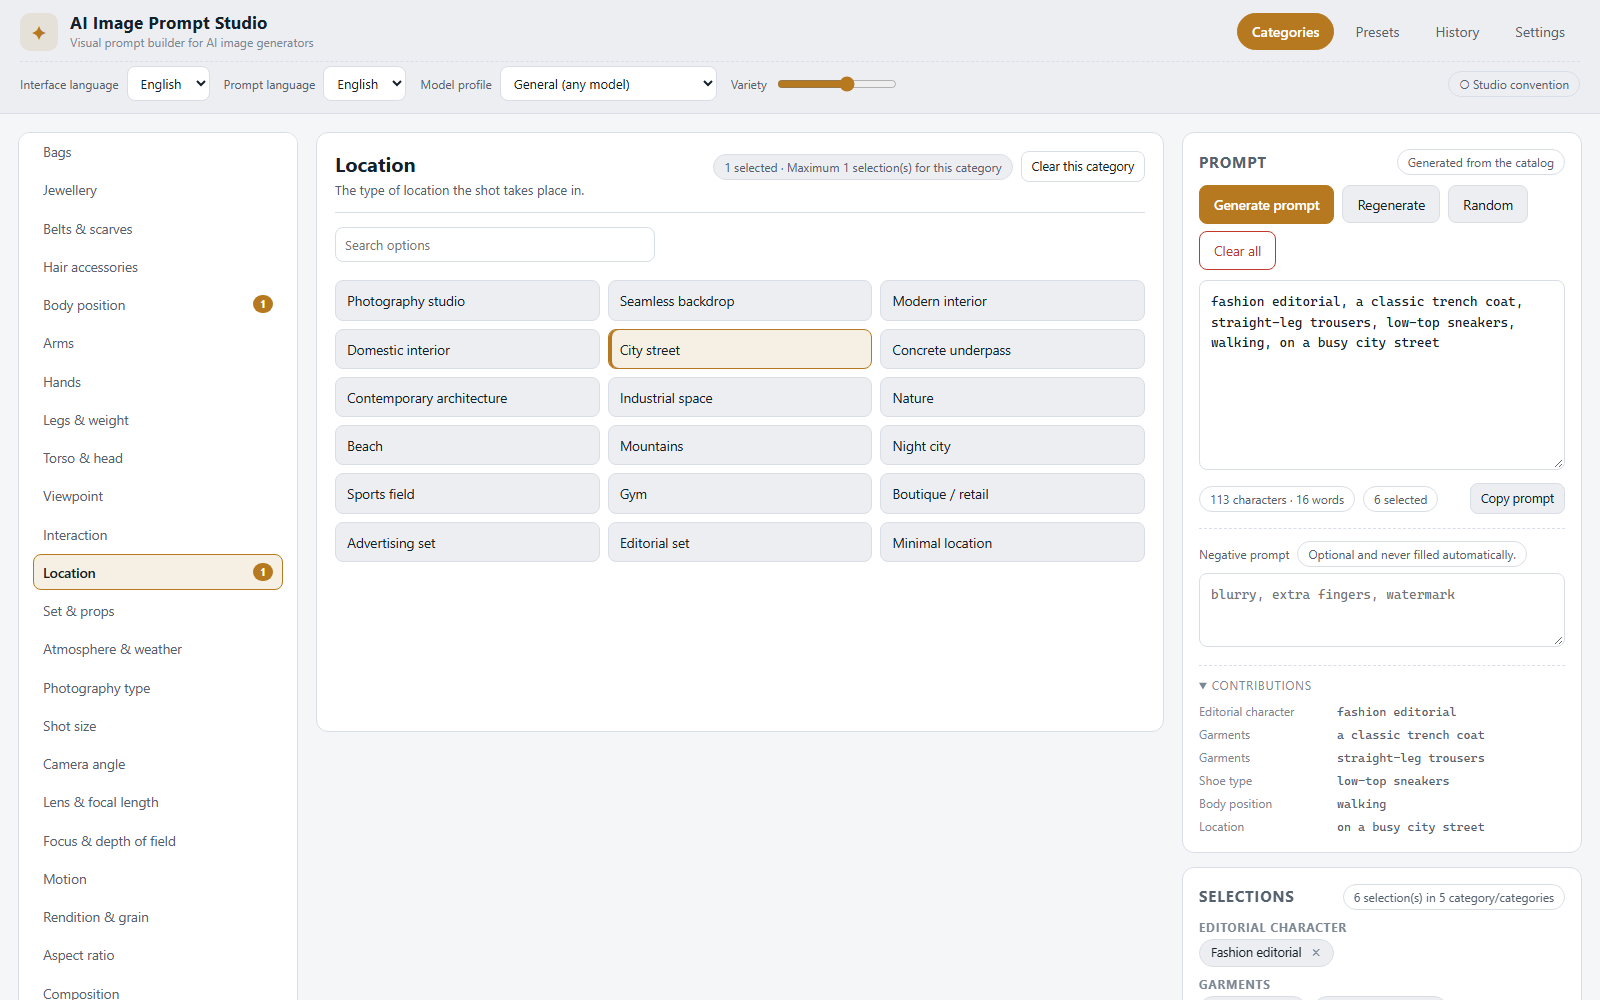
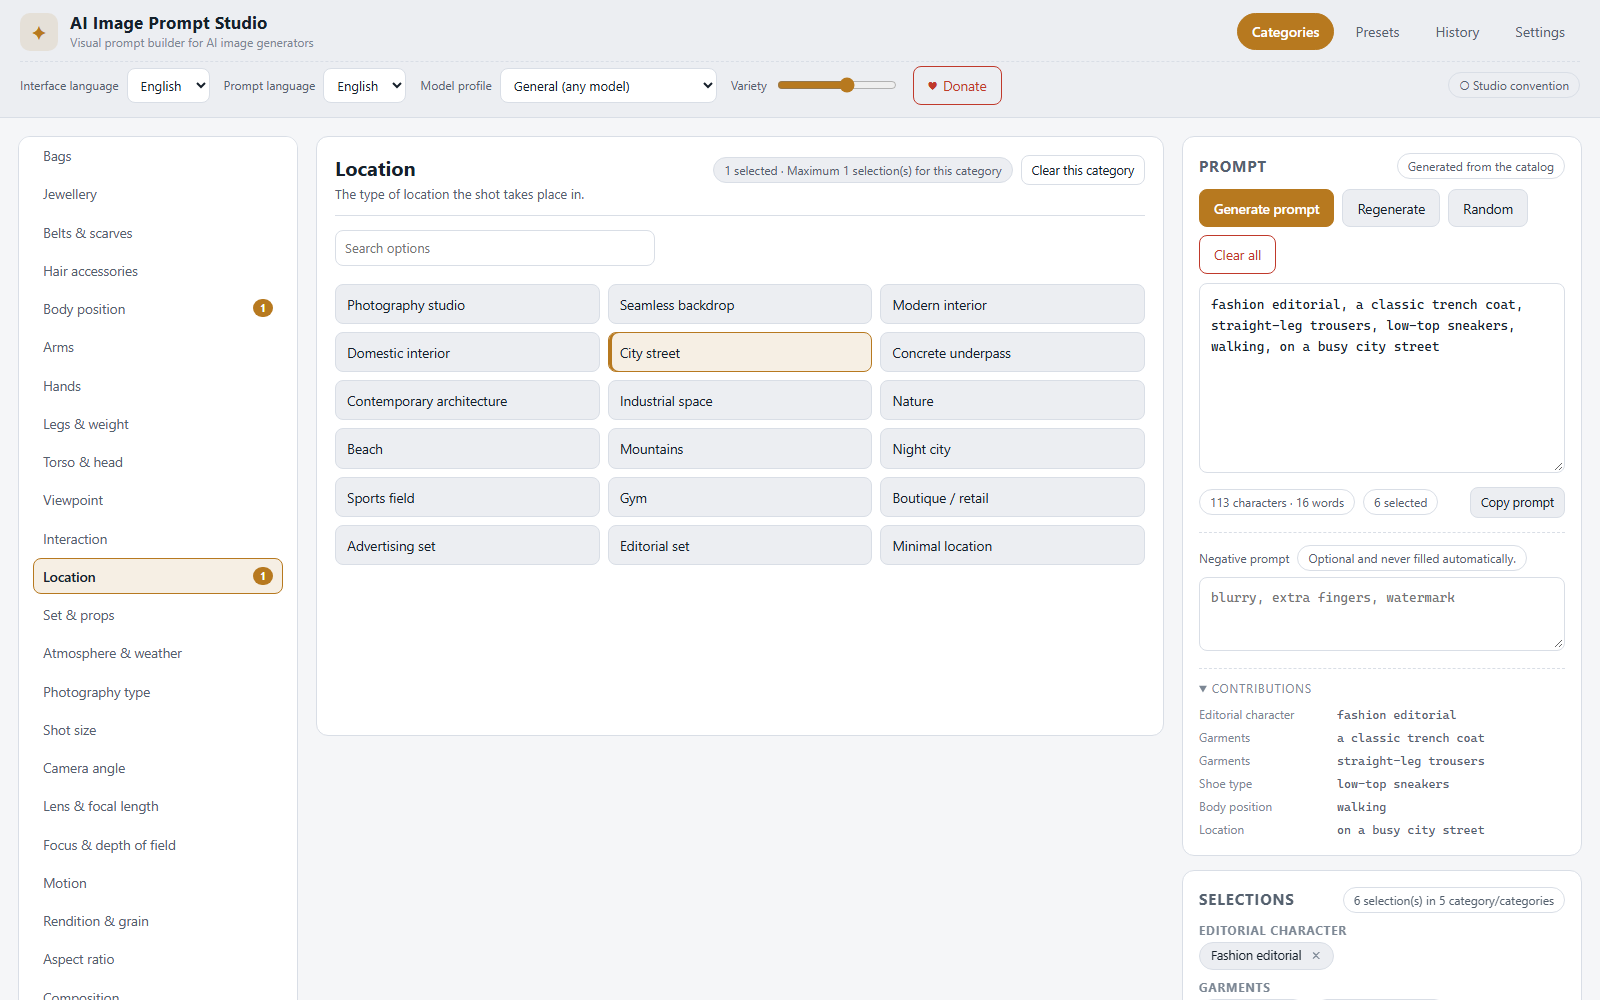
feat: donation button and MIT license

diff --git a/src/ui/App.test.tsx b/src/ui/App.test.tsx
@@ -10,6 +10,7 @@ import { afterEach, beforeEach, describe, expect, it, vi } from 'vitest';
 import { cleanup, fireEvent, render, screen, waitFor, within } from '@testing-library/react';
 import { App } from './App';
 import { AppProvider } from '../state/AppProvider';
+import { DONATION_URL } from '../donation';
 import type { KeyValueStorage } from '../state/persistence';
 
 class MemoryStorage implements KeyValueStorage {
@@ -165,6 +166,27 @@ describe('global actions', () => {
 
     fireEvent.click(screen.getByRole('button', { name: 'Copy prompt' }));
     await waitFor(() => expect(writer).toHaveBeenCalledWith('fashion editorial'));
+  });
+});
+
+describe('donation', () => {
+  it('links to the PayPal profile in a safe new tab', () => {
+    renderApp();
+    const links = screen.getAllByRole('link', { name: /Donate/ });
+    expect(links.length).toBeGreaterThanOrEqual(2);
+    expect(DONATION_URL).toBe('https://paypal.me/SalvaCucca');
+    for (const link of links) {
+      expect(link.getAttribute('href')).toBe(DONATION_URL);
+      expect(link.getAttribute('target')).toBe('_blank');
+      expect(link.getAttribute('rel')).toContain('noopener');
+    }
+  });
+
+  it('translates the donation label', async () => {
+    renderApp();
+    const selects = screen.getAllByRole('combobox');
+    fireEvent.change(selects[0]!, { target: { value: 'it' } });
+    await waitFor(() => expect(screen.getAllByRole('link', { name: /Dona/ }).length).toBeGreaterThan(0));
   });
 });
 

diff --git a/src/styles.css b/src/styles.css
@@ -134,6 +134,39 @@ a {
   color: var(--text-faint);
   font-size: 12px;
   border-top: 1px solid var(--border);
+  display: flex;
+  align-items: center;
+  justify-content: space-between;
+  gap: 12px;
+  flex-wrap: wrap;
+}
+
+.footer-donate {
+  color: var(--text-dim);
+  text-decoration: none;
+  border: 1px solid var(--border);
+  border-radius: 999px;
+  padding: 4px 12px;
+  transition: color 0.12s ease, border-color 0.12s ease;
+}
+
+.footer-donate:hover {
+  color: var(--danger);
+  border-color: var(--danger);
+}
+
+.btn.donate {
+  display: inline-flex;
+  align-items: center;
+  gap: 6px;
+  color: var(--danger);
+  border-color: var(--danger);
+  background: transparent;
+  text-decoration: none;
+}
+
+.btn.donate:hover {
+  background: var(--danger-soft);
 }
 
 /* ------------------------------------------------------------------ topbar */

diff --git a/src/ui/App.tsx b/src/ui/App.tsx
@@ -1,4 +1,5 @@
 import { useEffect, useMemo } from 'react';
+import { DONATION_URL } from '../donation';
 import { useApp } from '../state/AppProvider';
 import { CategoryNav } from './components/CategoryNav';
 import { CategoryPanel } from './components/CategoryPanel';
@@ -58,6 +59,15 @@ export function App() {
             entries: catalog.categories.reduce((sum, category) => sum + category.entries.length, 0),
           })}
         </span>
+        <a
+          className="footer-donate"
+          href={DONATION_URL}
+          target="_blank"
+          rel="noopener noreferrer"
+          title={t('action.donateHint')}
+        >
+          <span aria-hidden="true">♥</span> {t('action.donate')}
+        </a>
       </footer>
       <Overlays />
     </div>

diff --git a/src/ui/components/TopBar.tsx b/src/ui/components/TopBar.tsx
@@ -1,5 +1,6 @@
 import { UI_LOCALES } from '../../i18n';
 import { MODEL_PROFILES } from '../../models/profiles';
+import { DONATION_URL } from '../../donation';
 import { useApp } from '../../state/AppProvider';
 import { useT } from '../useT';
 
@@ -117,6 +118,16 @@ export function TopBar() {
             }
           />
         </label>
+
+        <a
+          className="btn donate"
+          href={DONATION_URL}
+          target="_blank"
+          rel="noopener noreferrer"
+          title={t('action.donateHint')}
+        >
+          <span aria-hidden="true">♥</span> {t('action.donate')}
+        </a>
 
         <span
           className={`pill subtle profile-pill ${profile.verification === 'verified' ? 'ok' : ''}`}

diff --git a/src/i18n/it.ts b/src/i18n/it.ts
@@ -42,6 +42,8 @@ export const it: Dictionary = {
   'action.export': 'Esporta',
   'action.apply': 'Applica',
   'action.retry': 'Riprova',
+  'action.donate': 'Dona',
+  'action.donateHint': 'Sostieni il progetto con una donazione PayPal a @SalvaCucca',
 
   'search.placeholder': 'Cerca tra le opzioni',
   'search.noResults': 'Nessuna opzione corrisponde alla ricerca.',

diff --git a/src/i18n/en.ts b/src/i18n/en.ts
@@ -40,6 +40,8 @@ export const en = {
   'action.export': 'Export',
   'action.apply': 'Apply',
   'action.retry': 'Retry',
+  'action.donate': 'Donate',
+  'action.donateHint': 'Support the project with a PayPal donation to @SalvaCucca',
 
   'search.placeholder': 'Search options',
   'search.noResults': 'No option matches the search.',

diff --git a/src/donation.ts b/src/donation.ts
@@ -1,0 +1,10 @@
+/**
+ * Donation link.
+ *
+ * A single source of truth for the PayPal profile, so the button, the footer
+ * and the test can never disagree.
+ */
+export const DONATION_URL = 'https://paypal.me/SalvaCucca';
+
+/** The PayPal handle shown to the user. */
+export const DONATION_HANDLE = '@SalvaCucca';

diff --git a/CHANGELOG.md b/CHANGELOG.md
@@ -9,6 +9,10 @@ and this project adheres to [Semantic Versioning](https://semver.org/spec/v2.0.0
 
 ### Added
 
+- **Donation button**: a "Dona / Donate" button in the header and a link in the
+  footer open the PayPal profile `@SalvaCucca`
+  (`https://paypal.me/SalvaCucca`) in a new tab. The URL lives in a single
+  constant (`src/donation.ts`) and is covered by a test.
 - **Catalog provenance**: six entries are now marked `verified` and carry their
   own source URL and consultation date (melton, gabardine, espadrilles, bokeh,
   deep focus, Rembrandt lighting). A unit test enforces that a `verified`
@@ -24,6 +28,8 @@ and this project adheres to [Semantic Versioning](https://semver.org/spec/v2.0.0
 
 ### Changed
 
+- **The project is now MIT licensed** (it was previously published without a
+  license). `package.json` declares `"license": "MIT"`.
 - The wording of the Rembrandt lighting entry now matches its source (lit
   triangle under the eye).
 - The test suite grew from 100 to 123 tests.

diff --git a/README.it.md b/README.it.md
@@ -382,7 +382,16 @@ npm run verify
 
 ## Licenza
 
-**Non è ancora stata concessa alcuna licenza.** Il repository è pubblicato per
-valutazione; il maintainer deve scegliere la licenza (MIT è il default
-consigliato) prima che il codice possa essere riutilizzato. Vedi
-[LICENSE](LICENSE).
+**MIT** — libera e open source. Puoi usare, modificare, distribuire e vendere
+il progetto, anche in ambito commerciale, purché venga mantenuto l'avviso di
+copyright.
+
+Il testo completo è in [LICENSE](LICENSE).
+
+Il progetto non è finanziato da pubblicità e non traccia nulla. Se ti è
+utile, puoi sostenerlo con una [donazione PayPal](https://paypal.me/SalvaCucca)
+usando il pulsante **Dona** nella barra in alto: è l'unico servizio esterno
+collegato dall'applicazione, ed è facoltativo.
+
+Le dipendenze di terze parti mantengono le proprie licenze: React e Vite
+(MIT), TypeScript (Apache-2.0), ESLint e typescript-eslint (MIT).

diff --git a/README.md b/README.md
@@ -374,6 +374,15 @@ npm run verify
 
 ## License
 
-**No license has been granted yet.** The repository is published for
-evaluation; the maintainer has to pick the license (MIT is the recommended
-default) before the code can be reused. See [LICENSE](LICENSE).
+**MIT** — free and open source. You can use, modify, distribute and sell it,
+including in commercial projects, as long as the copyright notice is kept.
+
+The full text is in [LICENSE](LICENSE).
+
+The project is not funded by ads and does not track anything. If it is useful
+to you, you can support it with a [PayPal donation](https://paypal.me/SalvaCucca)
+using the **Dona / Donate** button in the header — that is the only external
+service the application links to, and clicking it is optional.
+
+Third-party dependencies keep their own licenses: React and Vite (MIT),
+TypeScript (Apache-2.0), ESLint and typescript-eslint (MIT).

diff --git a/CONTRIBUTING.md b/CONTRIBUTING.md
@@ -121,6 +121,16 @@ storage use their own identifiers, so renaming the product does not invalidate
 the data of the users. The GitHub repository name and the `package.json`
 `name` have to stay in sync for the deployment to work.
 
+## License
+
+The project is released under the **MIT license**: you can use, modify,
+distribute and sell it, including commercially, as long as the copyright notice
+is kept. Contributions you submit are accepted under the same license.
+
+If the project is useful to you, a [PayPal donation](https://paypal.me/SalvaCucca)
+via the **Dona / Donate** button is welcome — but it is never required, and
+the application works exactly the same without it.
+
 ## Reporting a problem
 
 Open an issue with the steps to reproduce, the browser version and what you
